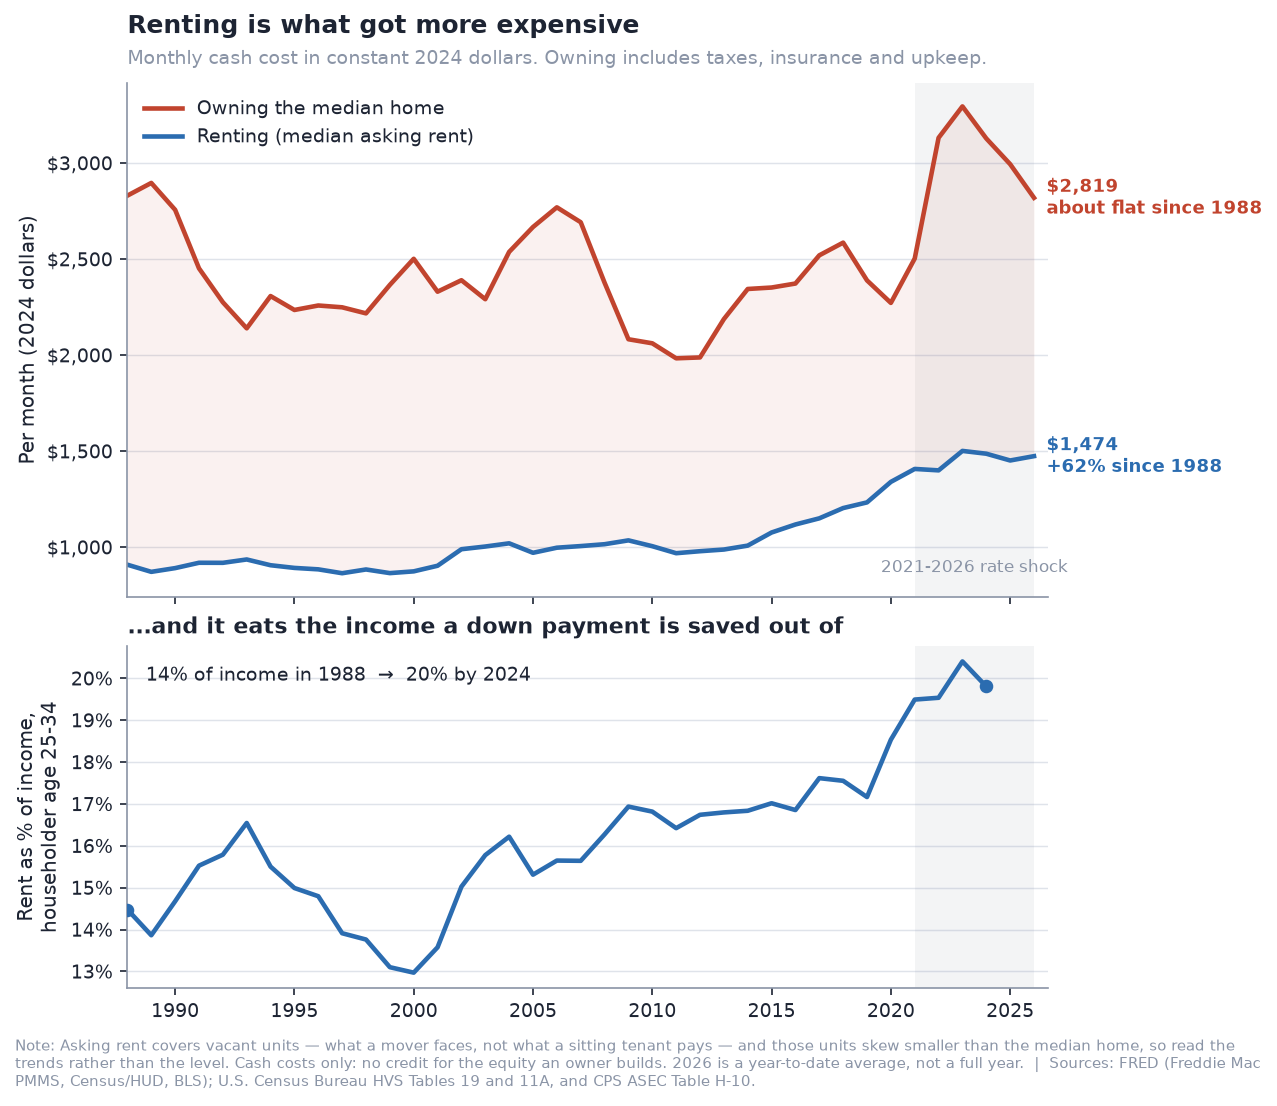
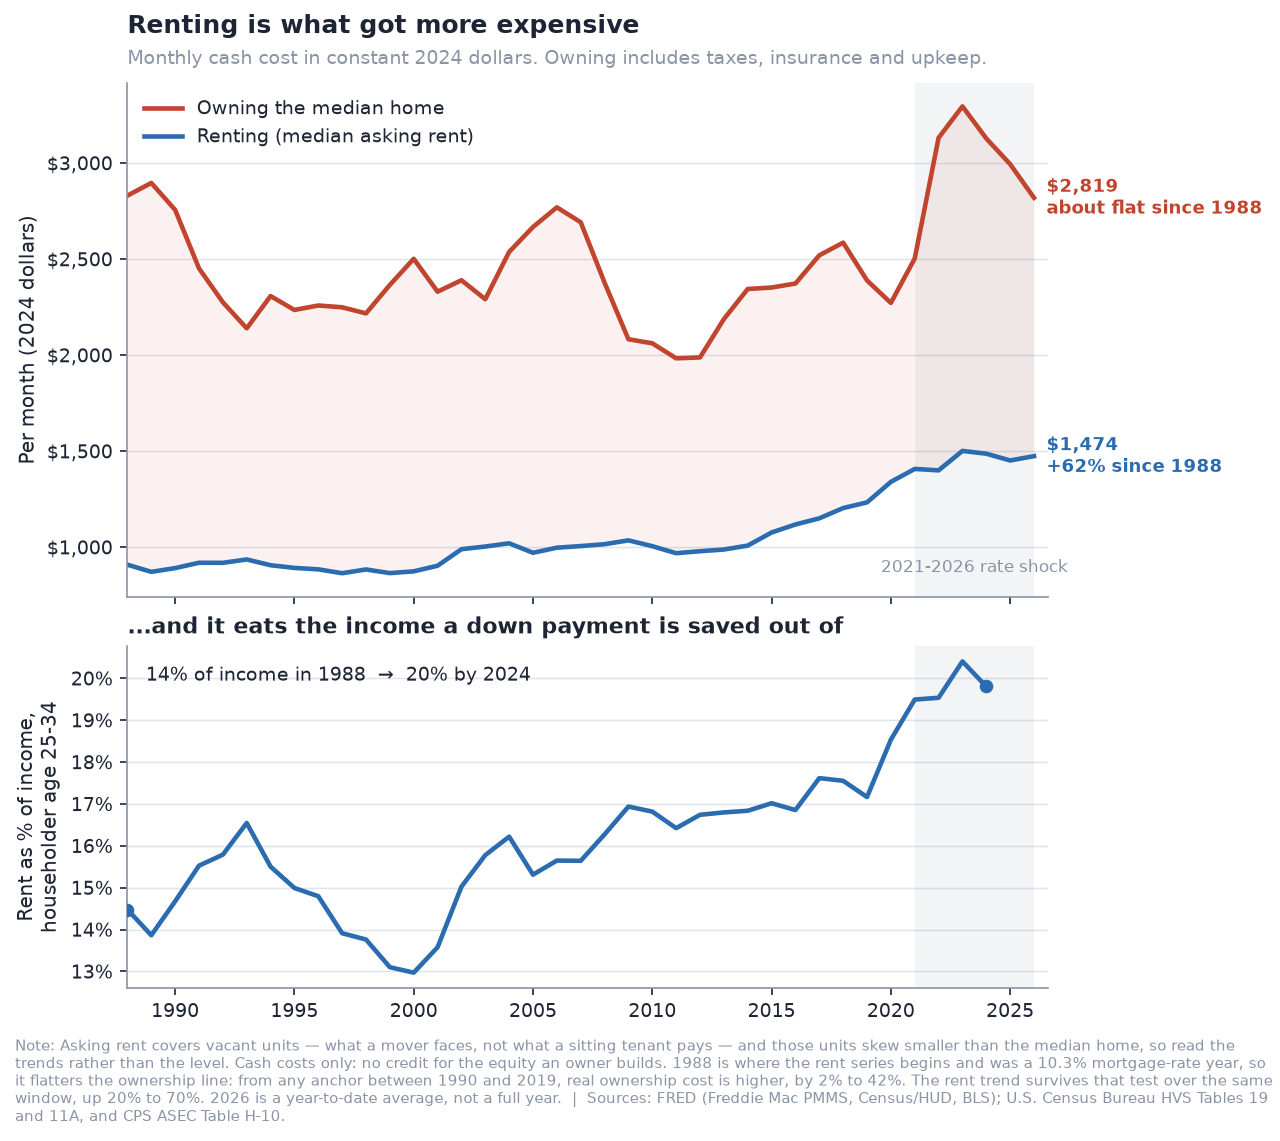
Apply the base-year test to our own rent finding; rework the hero
Finding 7 said the monthly cost of owning is "about where it was in 1988." Every
number was right, but a reader takes that as "owning hasn't got more expensive,"
and that reading only survives from the highest-rate anchor available. 1988 sits
at the 86th percentile of the whole series -- a 10.3% mortgage-rate year. From
any anchor between 1990 and 2019, real ownership cost is HIGHER, by 2% to 42%.

1988 is forced rather than chosen -- it is where the Census rent series starts --
but figure 07 exists to make exactly this point about the decomposition, so the
same test now runs on the rent finding, in the README, the page and the figure
footer. Rent passes it: up 20% to 70% from every anchor in that window, which
makes the rent trend the robust half of the finding and "owning is flat" the
half that needs its anchor stated.

Hero. The third tile restated the same 2021-23 window as the first two; it now
carries the rent figure, the one long-run claim that survives a change of base
year. A handoff paragraph under the tiles points at both timescales and deep-
links into the story.

Three things caught while verifying rather than by reading:

- My first caveat claimed rent is up "from every anchor". It is not: from a 2023
  anchor rent is -1.8%. Both sweeps are now bounded at 2019 and say so, because
  an anchor a year or two from the endpoint measures noise, not a trend. The
  test computes the sweep rather than trusting the prose.
[…]

diff --git a/web/index.html b/web/index.html
@@ -39,7 +39,8 @@
         A buyer never actually pays a price — they pay a <em>monthly payment</em>, and
         they have to pass a lender's income test to get it. Both depend on the price
         <strong>and</strong> the interest rate together. Model the payment instead of the
-        sticker price and the recent history of American housing looks very different.
+        sticker price and the recent history of American housing looks very different —
+        and then look past the shock, and it changes again.
       </p>
 
       <div class="stats">
@@ -52,10 +53,18 @@
           <span class="stat-label">Monthly payment on that same home</span>
         </div>
         <div class="stat stat-accent">
-          <span class="stat-value">$79k&nbsp;→&nbsp;$122k</span>
-          <span class="stat-label">Income a lender required to qualify</span>
+          <span class="stat-value">+62%</span>
+          <span class="stat-label">Real cost of renting since 1988, while the monthly cost of owning went sideways</span>
         </div>
       </div>
+
+      <p class="handoff">
+        That is the shock. Underneath it runs a slower one: rent rose 62% in real terms,
+        eating the very income a deposit has to be saved out of — and unlike most long-run
+        claims in this project, that one survives a change of starting year.
+        <a href="#qualifying-gap">Start with the qualifying gap</a>, or jump straight to
+        <a href="#robustness">the figure that stress-tests our own thesis</a>.
+      </p>
 
       <p class="byline">Natalie Zachariah &amp; Haydn Stucker · Duke University, Fall 2026</p>
     </div>
@@ -71,7 +80,7 @@
         and every number is reproduced by running <code>python src/run_all.py</code>.
       </p>
 
-      <article class="beat">
+      <article id="qualifying-gap" class="beat">
         <h3><span class="beat-num">1</span> The qualifying gap</h3>
         <p>
           Start with what a bank demands. Invert the 28% front-end debt-to-income rule and
@@ -85,7 +94,7 @@
         </figure>
       </article>
 
-      <article class="beat">
+      <article id="price-vs-payment" class="beat">
         <h3><span class="beat-num">2</span> Price and payment land in the same place</h3>
         <p>
           It is tempting to show price and payment diverging permanently — but that depends
@@ -100,7 +109,7 @@
         </figure>
       </article>
 
-      <article class="beat">
+      <article id="decomposition" class="beat">
         <h3><span class="beat-num">3</span> What drove the jump</h3>
         <p>
           Hold the price at its 2021 level and let the rate move, then do the reverse. The
@@ -114,7 +123,7 @@
         </figure>
       </article>
 
-      <article class="beat beat-feature">
+      <article id="robustness" class="beat beat-feature">
         <h3><span class="beat-num">4</span> But it depends on when you start — and on inflation</h3>
         <p>
           This is the figure we would most want a sceptical reader to check. 2021 was the
@@ -142,7 +151,7 @@
         </p>
       </article>
 
-      <article class="beat">
+      <article id="affordability-index" class="beat">
         <h3><span class="beat-num">5</span> Could the typical young household ever afford it?</h3>
         <p>
           An index of 100 means the median 25–34 household earns exactly enough to qualify
@@ -156,7 +165,7 @@
         </figure>
       </article>
 
-      <article class="beat">
+      <article id="down-payment" class="beat">
         <h3><span class="beat-num">6</span> The barrier that did get worse</h3>
         <p>
           The payment test flatters the present. The down-payment test does not. Saving 20%
@@ -169,7 +178,7 @@
         </figure>
       </article>
 
-      <article class="beat">
+      <article id="rent-vs-own" class="beat">
         <h3><span class="beat-num">7</span> Renting is what actually got more expensive</h3>
         <p>
           The obvious question about all of the above: compared to <em>what</em>? Our
@@ -189,14 +198,24 @@
                alt="Two panels. The top shows the monthly cost of owning the median home versus renting, in constant 2024 dollars from 1988 to 2026: owning ends about where it started while rent rises 62 percent. The bottom shows rent rising from 14 to 20 percent of income for householders aged 25 to 34.">
         </figure>
         <p class="callout">
-          Read the trends, not the levels. Census reports asking rent on <em>vacant</em>
-          units — the right series for someone about to move, but those units skew smaller
-          than the median owned home. And this is cash cost only: it credits an owner
-          nothing for the equity they build, and charges a renter nothing for having none.
+          <strong>The same test, turned on ourselves.</strong> 1988 is where the Census rent
+          series begins, so we didn't pick it — but it was a 10.3% mortgage-rate year, the
+          86th percentile of the whole series, and it flatters the ownership line. From any
+          anchor between 1990 and 2019, real ownership cost is <em>higher</em>, by 2% to
+          42%. Rent passes the same test over the same window — up 20% to 70% from every
+          one of those anchors. (We stop at 2019: an anchor a year or two from the endpoint
+          measures noise, not a trend.) So "owning is flat" means "owning costs what it did
+          in the high-rate era" — and the rent trend is the robust half.
+        </p>
+        <p class="callout">
+          Read trends, not levels. Census reports asking rent on <em>vacant</em> units — the
+          right series for someone about to move, but those units skew smaller than the
+          median owned home. And this is cash cost only: it credits an owner nothing for the
+          equity they build, and charges a renter nothing for having none.
         </p>
       </article>
 
-      <article class="beat">
+      <article id="outcome" class="beat">
         <h3><span class="beat-num">8</span> The outcome</h3>
         <p>
           All of it lands in one number. The homeownership rate for households under 35 is

diff --git a/web/styles.css b/web/styles.css
@@ -83,6 +83,16 @@ a { color: var(--cool); }
   line-height: 1.15; letter-spacing: -0.02em; font-weight: 700;
 }
 .lede { max-width: var(--measure); font-size: 1.1rem; color: var(--ink-soft); margin: 0 0 2.5rem; }
+/* Sits between the stat tiles and the byline: the tiles carry the shock, this
+   carries the slower trend underneath it and points into the story. */
+.handoff {
+  max-width: var(--measure);
+  margin: 1.5rem 0 0;
+  padding-left: 0.9rem;
+  border-left: 2px solid var(--cool);
+  font-size: 0.95rem;
+  color: var(--ink-soft);
+}
 .byline { margin: 2.25rem 0 0; font-size: 0.9rem; color: var(--muted); }
 
 .stats { display: grid; grid-template-columns: repeat(auto-fit, minmax(min(210px, 100%), 1fr)); gap: 1rem; }

diff --git a/tests/test_web_page.py b/tests/test_web_page.py
@@ -107,6 +107,45 @@ def test_beats_are_numbered_consecutively_from_one(page):
     assert nums == list(range(1, len(nums) + 1)), f"beat numbering is {nums}"
 
 
+# ----------------------------------------------------------------------- hero
+
+@pytest.mark.requires_data
+def test_hero_rent_figure_matches_the_data(flat):
+    """The third stat tile carries the one long-run claim that survives a change
+    of base year, so it had better match the series it quotes."""
+    import pandas as pd
+    csv = ROOT / "data" / "processed" / "affordability.csv"
+    if not csv.exists():
+        pytest.skip("run `python src/run_all.py` first")
+    rent = pd.read_csv(csv, index_col="year")["asking_rent_real2024"].dropna()
+    growth = (rent.iloc[-1] / rent.iloc[0] - 1) * 100
+
+    m = re.search(r'stat-value">\+(\d+)%</span>\s*<span class="stat-label">Real cost of renting',
+                  flat)
+    assert m, "the hero no longer states the real rent figure"
+    assert int(m.group(1)) == pytest.approx(growth, abs=1)
+
+
+def test_any_flatness_claim_in_the_hero_names_its_anchor(flat):
+    """"Owning is flat" holds only from the two highest-rate anchors in the
+    series, so it is honest only when the anchor is stated alongside it. This
+    does not forbid the claim — the third tile makes it deliberately — it
+    forbids making it unanchored.
+
+    Rewritten: the first version banned the word "flat" while allowing
+    "sideways", which is the same claim and is the word the tile actually uses.
+    It passed while permitting exactly what it existed to prevent.
+    """
+    tiles = re.findall(r'class="stat-label">([^<]+)<', flat)
+    assert tiles, "no hero stat tiles found"
+    hedges = ("flat", "sideways", "unchanged", "barely moved", "went nowhere",
+              "stayed put", "no higher")
+    for tile in tiles:
+        if any(h in tile.lower() for h in hedges):
+            assert re.search(r"\b(?:19|20)\d{2}\b", tile), \
+                f"ownership-flatness claim with no anchor year: {tile!r}"
+
+
 # -------------------------------------------------------------------- explorer
 
 @pytest.mark.requires_data

diff --git a/tests/test_readme_claims.py b/tests/test_readme_claims.py
@@ -271,6 +271,43 @@ def test_own_to_rent_ratio_endpoints(readme, data):
     assert (ratio > 1).all(), "the README says owning has *always* cost more per month"
 
 
+def test_base_year_caveat_numbers(readme, data):
+    """The caveat finding 7 applies to itself. These are computed claims: if a
+    revision moves the sweep, the prose has to move with it."""
+    aff = data["aff"]
+    own = aff["monthly_ownership_cost_real2024"]
+    rent = aff["asking_rent_real2024"].dropna()
+    end = int(rent.index.max())
+
+    assert claimed(readme, r"it was a \*\*(\d+\.\d)%\*\*\s*mortgage-rate year") == \
+        pytest.approx(aff.loc[1988, "mortgage_rate"], abs=0.05)
+
+    pct = (own < own.loc[1988]).mean() * 100
+    assert claimed(readme, r"the (\d+)th percentile of the whole series") == \
+        pytest.approx(pct, abs=1)
+
+    # Both sweeps run over the same window the README names: 1990-2019. An
+    # anchor nearer the endpoint measures noise -- from 2023 both series are
+    # slightly down, which is exactly why the claim is bounded.
+    lo, hi = 1990, 2019
+    assert claimed(readme, r"between \*\*(\d{4}) and \d{4}\*\*") == lo
+    assert claimed(readme, r"between \*\*\d{4} and (\d{4})\*\*") == hi
+
+    own_sweep = [(own.loc[end] / own.loc[y] - 1) * 100 for y in range(lo, hi + 1)]
+    assert min(own_sweep) > 0, "ownership cost is not higher from every anchor in the window"
+    assert claimed(readme, r"by between (\d+)% and \d+%") == pytest.approx(
+        min(own_sweep), abs=1)
+    assert claimed(readme, r"by between \d+% and (\d+)%") == pytest.approx(
+        max(own_sweep), abs=1)
+
+    rent_sweep = [(rent.loc[end] / rent.loc[y] - 1) * 100 for y in range(lo, hi + 1)]
+    assert min(rent_sweep) > 0, "rent is not up from every anchor in the window"
+    assert claimed(readme, r"up by (\d+)% to \d+%") == pytest.approx(
+        min(rent_sweep), abs=1)
+    assert claimed(readme, r"up by \d+% to (\d+)%") == pytest.approx(
+        max(rent_sweep), abs=1)
+
+
 # --------------------------------------------------- methodology notes
 
 def test_figure_02_index_endpoints(readme, data):

diff --git a/src/eda.py b/src/eda.py
@@ -479,10 +479,15 @@ def fig_rent_vs_own(df):
     ax2.yaxis.set_major_formatter(lambda v, _: f"{v:.0f}%")
     _style(ax2, xlim=(first, last + 0.6))
 
-    caveat = ("Asking rent covers vacant units — what a mover faces, not what a "
-              "sitting tenant pays — and those units skew smaller than the median "
-              "home, so read the trends rather than the level. Cash costs only: "
-              "no credit for the equity an owner builds.")
+    base_rate = d.loc[first, "mortgage_rate"]
+    caveat = (f"Asking rent covers vacant units — what a mover faces, not what a "
+              f"sitting tenant pays — and those units skew smaller than the median "
+              f"home, so read the trends rather than the level. Cash costs only: no "
+              f"credit for the equity an owner builds. {first} is where the rent "
+              f"series begins and was a {base_rate:.1f}% mortgage-rate year, so it "
+              f"flatters the ownership line: from any anchor between 1990 and 2019, "
+              f"real ownership cost is higher, by 2% to 42%. The rent trend survives "
+              f"that test over the same window, up 20% to 70%.")
     partial = _partial_note(d)
     _save(fig, "08_rent_vs_own.png",
           f"{caveat} {partial}" if partial else caveat)

diff --git a/README.md b/README.md
@@ -105,6 +105,17 @@ little or spend carelessly. The data does not support that explanation.
    has to be saved out of. Owning has always cost more per month than renting
    (3.1× in 1988, 1.9× now); the barrier was never the monthly cost, it was
    getting in the door.
+
+   **Base-year caveat, applied to ourselves.** 1988 is where the Census rent
+   series begins, so it is forced rather than chosen — but it was a **10.3%**
+   mortgage-rate year, the 86th percentile of the whole series, and it therefore
+   flatters the ownership line. Measured from any anchor between **1990 and 2019**,
+   real ownership cost is *higher*, by between 2% and 42%. The rent finding
+   survives the same test over the same window: up by 20% to 70%, from every one
+   of those anchors. (We bound the sweep at 2019 because an anchor a year or two
+   from the endpoint measures noise, not a trend — from 2023, both series are
+   slightly *down*.) So read "owning is flat" as "owning costs what it did in the
+   high-rate era," and treat the rent trend as the robust half of this finding.
 8. **The outcome shows up in ownership.** The homeownership rate for households
    under 35 is **36.0%** (2026 YTD) — still below its **37.4%** level in 1994,
    and well off its 2004 peak of 43.1%.
@@ -389,7 +400,10 @@ like with like on size. Read the rent figures as **trends, not levels**: the
 +62% real growth is robust to that mismatch in a way the 1.9× ratio is not. The
 comparison is also cash-only — it credits an owner nothing for equity and charges
 a renter nothing for having none, so it is a measure of the monthly hurdle, not a
-verdict on which is the better deal.
+verdict on which is the better deal. And the 1988 start flatters the ownership
+side, for the reason set out in finding 7: it was a 10.3%-rate year. We ran the
+same base-year sweep on ourselves that figure 07 runs on the decomposition, and
+report the result rather than the single anchor the data handed us.
 
 **Survey data has real error bars.** Census CPS and HVS estimates come from
 household samples with sampling error, and CPS income questions changed
